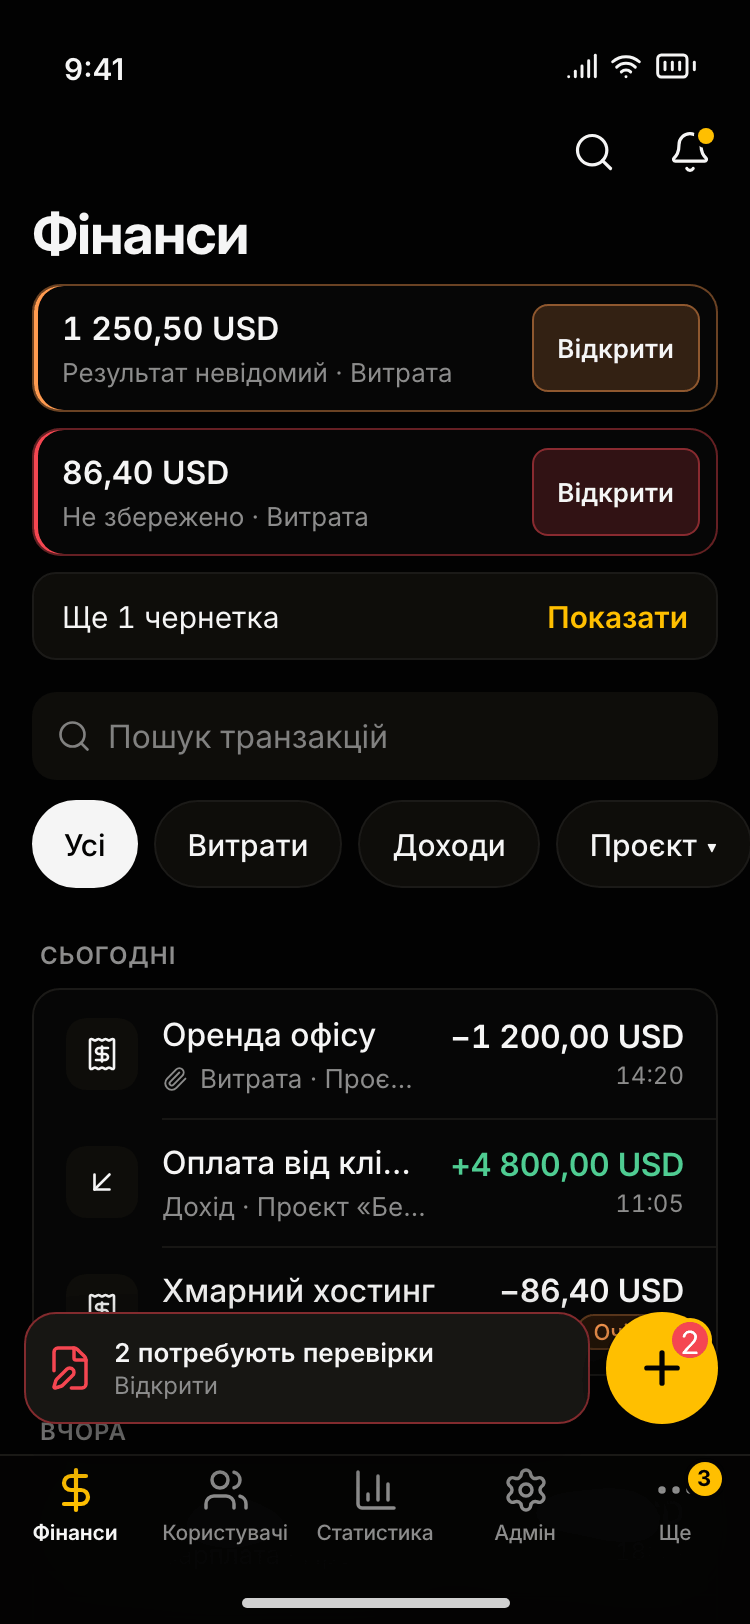
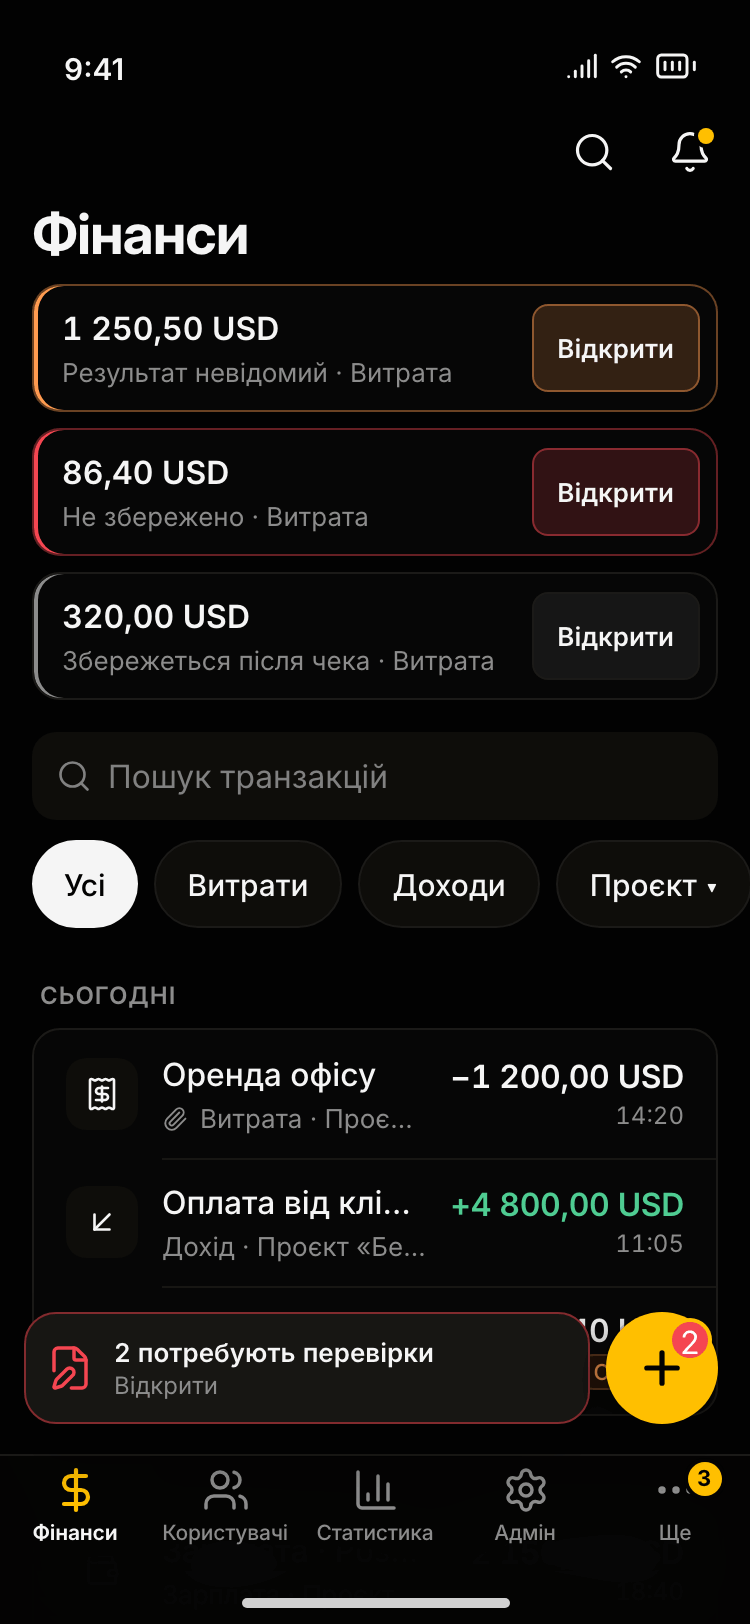
wip: up to three pinned rows, tooltip beside the bar (R8 D)

diff --git a/docs/design/screens/_foundation/shell-v2.md b/docs/design/screens/_foundation/shell-v2.md
@@ -221,7 +221,7 @@ changes.
 | The start control with unresolved drafts | Never blocks: on Фінанси every «+» opens a new form directly; on a tab whose FAB is quick-add, the FAB keeps «+», gains a red dot (the count from two) and the name «Створити, 2 чернетки потребують уваги», and a tap opens the quick-add sheet: the «Чернетки» section on top, then the role's normal actions (`primitives-v2/quick-add-drafts-375`); a non-money page FAB (Користувачі «Новий користувач») never changes and gets no dot | On Фінанси the rail «+» opens a new form directly; elsewhere it gains the dot and the name and opens its quick-add menu beside it: the «Чернетки» section on top, then the role's normal actions; «Нова транзакція» takes the initial focus; key hints are hidden under `(pointer: coarse)` (`primitives-v2/drafts-chooser-768`, on Співбесіди) | The header «Нова транзакція» keeps its label and gains the dot and the name; on Фінанси it and `C` open a new form directly; on the other pages that carry it (Статистика) they open the compact menu under the button (the «Чернетки» section, «Нова транзакція» last); «Нова транзакція» takes the initial focus, so `C` then Enter still creates (`primitives-v2/drafts-chooser-1440`) |
 | Form container                           | Large sheet (`quick-add-txn-*`) or the pushed page (`form-money-375`)                                                                                                                                                                                                                                                                                                                                                                       | Side panel, 400 px, the same `moneyBody()` (`primitives-v2/sheet-panel-768`)                                                                                                                                                                                                                                                                    | Side panel, 420 at 1024 / 480 at 1440 (`sheet-panel-1024`, `sheet-panel-1440`)                                                                                                                                                                                                                                                                                                            |
 | The pill slot                            | Above the tab bar, left of the FAB (§2 floating-layer stacking)                                                                                                                                                                                                                                                                                                                                                                             | Bottom-right, 24 px from both edges, 320 wide (`primitives-v2/upload-pill-768`); toasts (420 wide) stack above it in the same corner; the scroller gets bottom padding = the stack height + 24; with a side panel open the corner moves left of the panel                                                                                       | Bottom-right of the main area, 24 px from both edges (`primitives-v2/drafts-desktop-1440`); toasts stack above it in the same corner; the same bottom padding and the same move left of an open side panel                                                                                                                                                                                |
-| Pinned draft rows                        | Top of the Фінанси list: at most two rows, unresolved first, then «Ще N чернеток · Показати» (toggles to «Згорнути», resets on a route change); two lines, the amount alone then state · type; «Відкрити» is tonal (`primitives-v2/drafts-two-unresolved-375`)                                                                                                                                                                              | Top of the Фінанси list pane                                                                                                                                                                                                                                                                                                                    | Top of the Фінанси table: one full-width 40 px row with the amount, state · type and a tonal «Відкрити» (`primitives-v2/drafts-desktop-1440`)                                                                                                                                                                                                                                             |
+| Pinned draft rows                        | Top of the Фінанси list: up to three rows, unresolved first; from four on, two rows, then «Ще N чернеток · Показати» (N ≥ 2) (toggles to «Згорнути», resets on a route change); two lines, the amount alone then state · type; «Відкрити» is tonal (`primitives-v2/drafts-two-unresolved-375`)                                                                                                                                              | Top of the Фінанси list pane                                                                                                                                                                                                                                                                                                                    | Top of the Фінанси table: one full-width 40 px row with the amount, state · type and a tonal «Відкрити» (`primitives-v2/drafts-desktop-1440`)                                                                                                                                                                                                                                             |
 | «Перевірити список» (form is open)       | The check sheet «Нові записи» over the kept form sheet                                                                                                                                                                                                                                                                                                                                                                                      | A centred 560 px dialog «Нові записи» over the side panel; the panel stays mounted and keeps the draft                                                                                                                                                                                                                                          | The same 560 px dialog over the side panel (`primitives-v2/check-dialog-1024`)                                                                                                                                                                                                                                                                                                            |
 | Focus after the check closes             | Back to «Перевірити список»                                                                                                                                                                                                                                                                                                                                                                                                                 | Back to «Перевірити список» in the panel                                                                                                                                                                                                                                                                                                        | Same                                                                                                                                                                                                                                                                                                                                                                                      |
 | Receipt switch (empty receipt)           | «Файл» / «Посилання», 44 px segmented above the tile                                                                                                                                                                                                                                                                                                                                                                                        | The same switch, 44 px, in the panel (`sheet-panel-768`)                                                                                                                                                                                                                                                                                        | The same switch; 36 px on `(pointer: fine)`, 44 on `(pointer: coarse)`                                                                                                                                                                                                                                                                                                                    |

diff --git a/docs/design/screens/_foundation/primitives-v2.md b/docs/design/screens/_foundation/primitives-v2.md
@@ -363,7 +363,7 @@ must not share one UI (spec §4.5b):
   confirms at PNG approval). Closing the sheet returns to the form. When the user reaches the Finance
   list another way, the kept draft is a pinned row at the top (`listrow-draft-375`): the amount alone
   on one line with no wrap («1 250,50 USD»), the state line «Не збережено · Витрата» (after an unknown
-  outcome «Результат невідомий · Витрата») and **one** 44 px tonal «Відкрити» (no other action on the row). A pinned row is never a primary: its «Відкрити» is tonal (foundation §7.5). The 2 px leading bar, the border and the «Відкрити» tint are `--destructive` for a failed draft and `--warning` for an unknown one; armed and in-flight rows stay muted. The phone row carries no icon tile, so the state line fits on one line at 375 beside «Відкрити»; the desktop row keeps its icon. **At most two pinned rows** show, unresolved first by the slot precedence; the rest collapse into one row «Ще N чернеток · Показати», which expands them in place; its label then toggles to «Згорнути», it keeps `aria-expanded`, and it resets to collapsed on a route change (`drafts-two-unresolved-375`). Each row has two lines: the amount alone on one line with no wrap («1 250,50 USD»), then state · type («Результат невідомий · Витрата»). «+» never blocks: with unresolved drafts (failed or unknown), **on Фінанси every «+» opens a new form directly** (the FAB, the rail «+», the header «Нова транзакція» and `C`): the pinned rows and the pill already show the drafts there, and `C` stays one key on the main money page. On the other pages a money draft **never hides other actions**: the drafts join the existing «+» menus and never replace them. The quick-add sheet (phone) and the rail «+» menu (tablet) keep the role's normal action list; with unresolved drafts a «Чернетки» section sits on top, each draft row in the pinned-row format (the amount, then state · type, and «Відкрити»), then the normal actions, «Нова транзакція» among them (`primitives-v2/quick-add-drafts-375` from Статистика and `drafts-chooser-768` from Співбесіди, both with the 4 ADMIN actions); in the rail menu «Нова транзакція», the first normal action, takes the initial focus. A page FAB whose action is not money (Користувачі «Новий користувач», Співбесіди «Нова співбесіда», Вакансії «Створити вакансію») never changes and gets no dot. The header «Нова транзакція» and `C`, a money trigger by name, open a compact menu: the «Чернетки» section above, «Нова транзакція» last with the initial focus, so `C` then Enter still creates (`primitives-v2/drafts-chooser-1440` on Статистика). Every menu off the phone is `role="menu"` with the trigger `aria-haspopup="menu"`; ↑ / ↓ move between the items, and Esc closes it and returns focus to the trigger; under `(pointer: coarse)` the key hints («↑ ↓», «Enter») are hidden and a draft's state line is at least 13 px. The money FAB on Фінанси and the quick-add «+» keep their «+» and gain a red dot (with the count from two); the accessible name says the count: «Нова транзакція, 1 чернетка потребує уваги» on Фінанси, «Створити, 2 чернетки потребують уваги» on the quick-add «+» (`listrow-draft-375`,
+  outcome «Результат невідомий · Витрата») and **one** 44 px tonal «Відкрити» (no other action on the row). A pinned row is never a primary: its «Відкрити» is tonal (foundation §7.5). The 2 px leading bar, the border and the «Відкрити» tint are `--destructive` for a failed draft and `--warning` for an unknown one; armed and in-flight rows stay muted. The phone row carries no icon tile, so the state line fits on one line at 375 beside «Відкрити»; the desktop row keeps its icon. **Up to three pinned rows** show, unresolved first by the slot precedence; the block collapses only when it saves a row: from four drafts on, two show and the rest collapse into one row «Ще N чернеток · Показати» (N ≥ 2), which expands them in place; its label then toggles to «Згорнути», it keeps `aria-expanded`, and it resets to collapsed on a route change (`drafts-two-unresolved-375`). Each row has two lines: the amount alone on one line with no wrap («1 250,50 USD»), then state · type («Результат невідомий · Витрата»). «+» never blocks: with unresolved drafts (failed or unknown), **on Фінанси every «+» opens a new form directly** (the FAB, the rail «+», the header «Нова транзакція» and `C`): the pinned rows and the pill already show the drafts there, and `C` stays one key on the main money page. On the other pages a money draft **never hides other actions**: the drafts join the existing «+» menus and never replace them. The quick-add sheet (phone) and the rail «+» menu (tablet) keep the role's normal action list; with unresolved drafts a «Чернетки» section sits on top, each draft row in the pinned-row format (the amount, then state · type, and «Відкрити»), then the normal actions, «Нова транзакція» among them (`primitives-v2/quick-add-drafts-375` from Статистика and `drafts-chooser-768` from Співбесіди, both with the 4 ADMIN actions); in the rail menu «Нова транзакція», the first normal action, takes the initial focus. A page FAB whose action is not money (Користувачі «Новий користувач», Співбесіди «Нова співбесіда», Вакансії «Створити вакансію») never changes and gets no dot. The header «Нова транзакція» and `C`, a money trigger by name, open a compact menu: the «Чернетки» section above, «Нова транзакція» last with the initial focus, so `C` then Enter still creates (`primitives-v2/drafts-chooser-1440` on Статистика). Every menu off the phone is `role="menu"` with the trigger `aria-haspopup="menu"`; ↑ / ↓ move between the items, and Esc closes it and returns focus to the trigger; under `(pointer: coarse)` the key hints («↑ ↓», «Enter») are hidden and a draft's state line is at least 13 px. The money FAB on Фінанси and the quick-add «+» keep their «+» and gain a red dot (with the count from two); the accessible name says the count: «Нова транзакція, 1 чернетка потребує уваги» on Фінанси, «Створити, 2 чернетки потребують уваги» on the quick-add «+» (`listrow-draft-375`,
   `upload-pill-failed-375`). After the first
   Wave 1 task ships the key, a form that has it may offer a resubmit with the same key.
 
@@ -413,7 +413,7 @@ two armed «Збережеться 2 транзакції» / «Відкрити
 its own; `upload-pill-multi-375`); «+2 чеки» counts only uploads that belong to no draft; two or more
 failed or unknown «2 потребують перевірки» / «Відкрити», which opens Фінанси at the pinned rows, and the
 FAB dot carries the count (`drafts-two-unresolved-375`). A save that completes under a failed or
-unknown pill shows as a normal success toast stacked above it; the pill keeps its own state. Фінанси pins a row per unsaved draft by the slot precedence, at most two, the rest in «Ще N чернеток · Показати»
+unknown pill shows as a normal success toast stacked above it; the pill keeps its own state. Фінанси pins a row per unsaved draft by the slot precedence, up to three; from four on, two and the rest in «Ще N чернеток · Показати» (N ≥ 2)
 (`drafts-two-375`: one failed and one armed; the failed one wins the pill). Without a money draft the
 slot holds the plain upload pill. **Toast + pill** (`toast-pill-stack-375`): the pill keeps the base slot (left 12,
 right inset 80, left of the FAB); a toast stacks 8 px above it; at most one toast at a time. A toast
@@ -434,7 +434,7 @@ for a tooltip with the exact value (the hit area is the full-height column band;
 only way). The second, smaller chart (partners) sits **below the fold** (`chart-mobile-scrolled-375`),
 with the partners' **initials** («ВК», «ОШ») directly under their bars, no legend, and the full
 names in the accessible summary. Bars and ticks carry bare numbers («4,2», «8»); the caption row states
-the unit once («тис. USD»), and the accessible summary says «тис. USD». `chart-desktop`: hover tooltip (values `white-space: nowrap`, the tooltip min-width 176 px and kept inside the card), keyboard focus on bars (arrow keys), series swatches carry
+the unit once («тис. USD»), and the accessible summary says «тис. USD». `chart-desktop`: hover tooltip (values `white-space: nowrap`, min-width 176 px; it sits beside the bar, on the right when there is room and otherwise on the left, never over a bar), keyboard focus on bars (arrow keys), series swatches carry
 token names, the chart follows the table filters.
 
 ---

diff --git a/docs/design/foundation.md b/docs/design/foundation.md
@@ -438,7 +438,7 @@ reference widths below. Mobile-first: the base is mobile, scale up with `sm` / `
   - **Pinned rows.** Фінанси pins a row for every draft that is not saved (armed, in flight, failed,
     unknown), ordered by the slot precedence, each with its state line and one 44 px tonal «Відкрити»
     (`drafts-two-375.png`: one failed and one armed). A lower state the pill does not show is never
-    lost: its row is there. A pinned row is never a primary: its «Відкрити» is tonal (one primary per context, §7.5). The 2 px leading bar, the border and the «Відкрити» tint are `--destructive` for a failed draft and `--warning` for an unknown one; armed and in-flight rows stay muted. The phone row carries no icon tile, so the state line fits on one line at 375 beside «Відкрити»; the desktop row keeps its icon. **At most two pinned rows** show, unresolved first by the slot precedence; the rest collapse into one row «Ще N чернеток · Показати», which expands them in place; its label then toggles to «Згорнути», it keeps `aria-expanded`, and it resets to collapsed on a route change (`drafts-two-unresolved-375`). Each row has two lines: the amount alone on one line with no wrap («1 250,50 USD»), then state · type («Результат невідомий · Витрата»).
+    lost: its row is there. A pinned row is never a primary: its «Відкрити» is tonal (one primary per context, §7.5). The 2 px leading bar, the border and the «Відкрити» tint are `--destructive` for a failed draft and `--warning` for an unknown one; armed and in-flight rows stay muted. The phone row carries no icon tile, so the state line fits on one line at 375 beside «Відкрити»; the desktop row keeps its icon. **Up to three pinned rows** show, unresolved first by the slot precedence; the block collapses only when it saves a row: from four drafts on, two show and the rest collapse into one row «Ще N чернеток · Показати» (N ≥ 2), which expands them in place; its label then toggles to «Згорнути», it keeps `aria-expanded`, and it resets to collapsed on a route change (`drafts-two-unresolved-375`). Each row has two lines: the amount alone on one line with no wrap («1 250,50 USD»), then state · type («Результат невідомий · Витрата»).
   - **«+» never blocks.** Armed and in-flight drafts change nothing: «+» opens a new form. With unresolved drafts (failed or unknown), **on Фінанси every «+» opens a new form directly** (the FAB, the rail «+», the header «Нова транзакція» and `C`): the pinned rows and the pill already show the drafts there, and `C` stays one key on the main money page. On the other pages a money draft **never hides other actions**: the drafts join the existing «+» menus and never replace them. The quick-add sheet (phone) and the rail «+» menu (tablet) keep the role's normal action list; with unresolved drafts a «Чернетки» section sits on top, each draft row in the pinned-row format (the amount, then state · type, and «Відкрити»), then the normal actions, «Нова транзакція» among them (`primitives-v2/quick-add-drafts-375` from Статистика and `drafts-chooser-768` from Співбесіди, both with the 4 ADMIN actions); in the rail menu «Нова транзакція», the first normal action, takes the initial focus. A page FAB whose action is not money (Користувачі «Новий користувач», Співбесіди «Нова співбесіда», Вакансії «Створити вакансію») never changes and gets no dot. The header «Нова транзакція» and `C`, a money trigger by name, open a compact menu: the «Чернетки» section above, «Нова транзакція» last with the initial focus, so `C` then Enter still creates (`primitives-v2/drafts-chooser-1440` on Статистика). Every menu off the phone is `role="menu"` with the trigger `aria-haspopup="menu"`; ↑ / ↓ move between the items, and Esc closes it and returns focus to the trigger; under `(pointer: coarse)` the key hints («↑ ↓», «Enter») are hidden and a draft's state line is at least 13 px. The money FAB on Фінанси and the quick-add «+» keep their «+» and gain a red dot (with the count from two); the accessible name says the count: «Нова транзакція, 1 чернетка потребує уваги» on Фінанси, «Створити, 2 чернетки потребують уваги» on the quick-add «+»
     (`upload-pill-failed-375.png`, `listrow-draft-375.png`, `drafts-two-unresolved-375.png`). No draft
     forces a wait or a discard before another expense.
